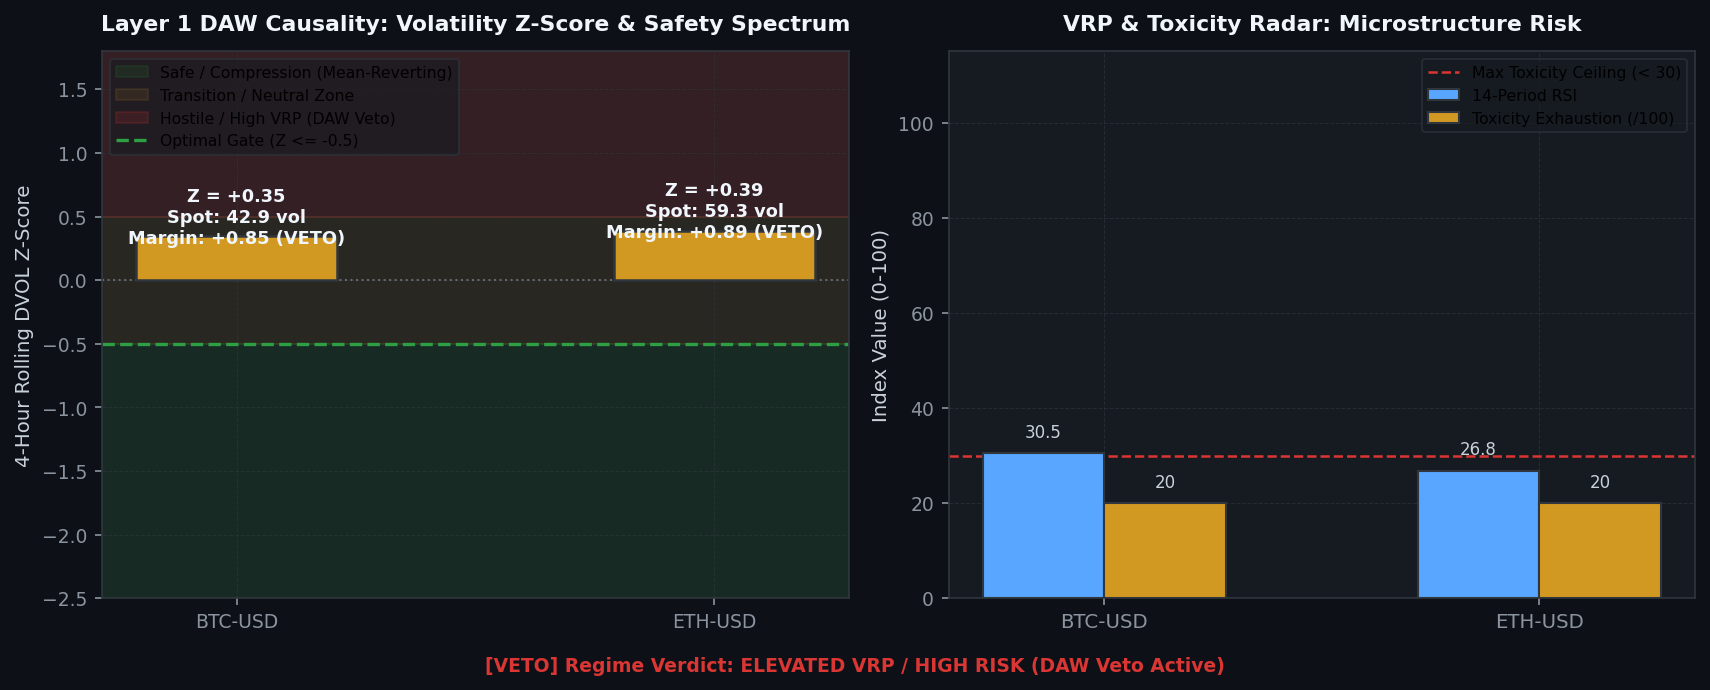
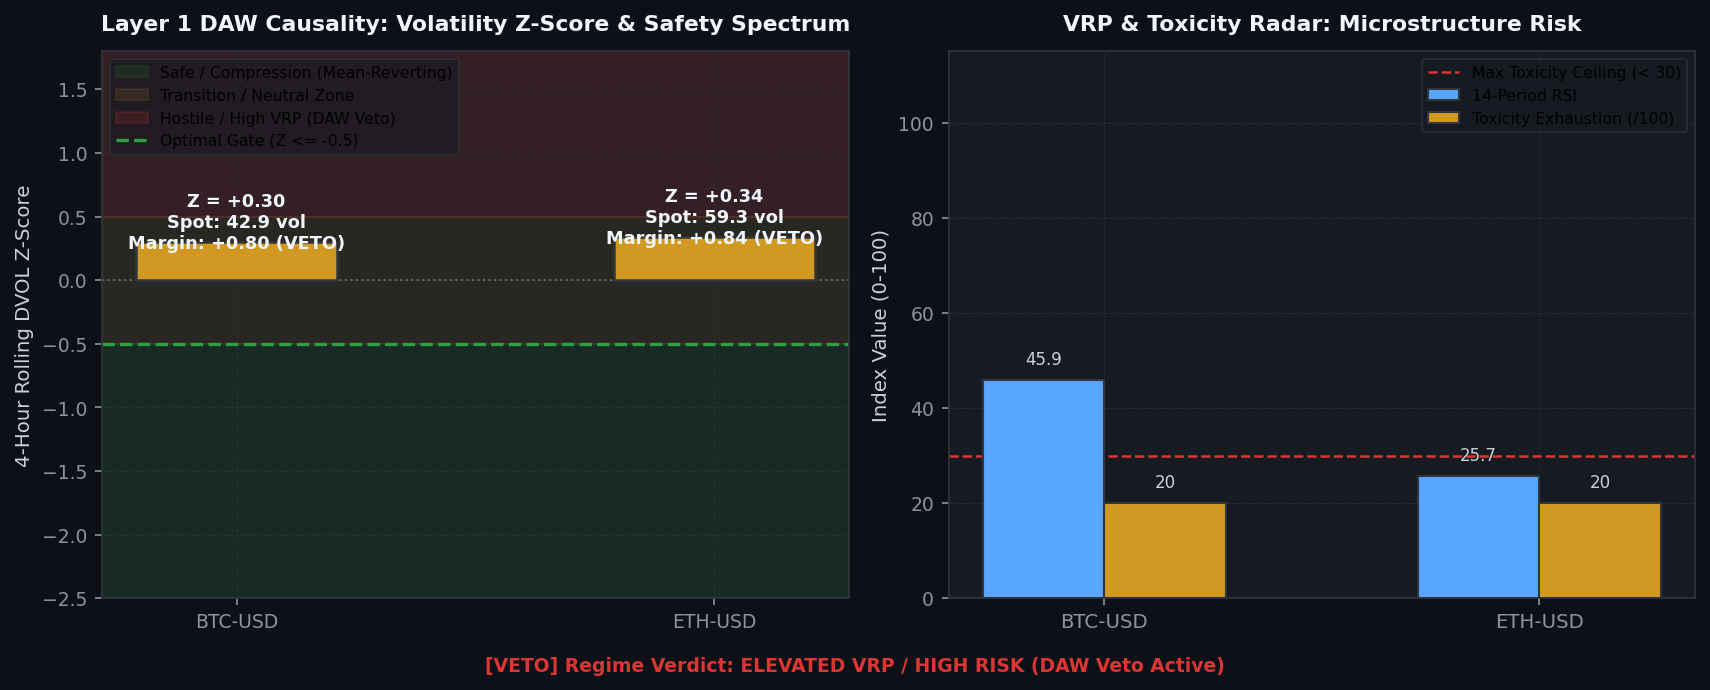
[coinbase] Hourly Status & Visual Intelligence Update: 2026-08-23 23:11:31

diff --git a/coinbase/data/hourly_status_report.md b/coinbase/data/hourly_status_report.md
@@ -3,7 +3,7 @@ layout: default
 ---
 
 # 🛡 Unified Trading System Hourly Status & Visual Intelligence
-> **Report Generated**: `2026-08-23 11:00:06 PM PDT (2026-08-24 06:00:06 UTC)`  
+> **Report Generated**: `2026-08-23 11:11:13 PM PDT (2026-08-24 06:11:13 UTC)`  
 > **System Health**: **🟡 DEGRADED / RESTRICTED** | **Win Rate**: `0.0%` | **Completed Trades**: `0`
 
 
@@ -15,13 +15,13 @@ Real-time Deribit implied volatility (DVOL) proxy tracking against mathematicall
 
 | Symbol | Proxy Oracle | Live Z-Score | Optimal Limit (YSP) | Safety Margin | Live VRP | Optimal VRP (YSP) | DAW Safety Verdict |
 | :--- | :--- | :--- | :--- | :--- | :--- | :--- | :--- |
-| `AVAX-USD` | DVOL_BTC | **+0.35** | **-0.50** | **+0.85** | **+3.95** | 5.0 | 🔴 DAW VETOED |
-| `ETH-USD` | DVOL_ETH | **+0.39** | **-0.50** | **+0.89** | **+20.41** | 5.0 | 🔴 DAW VETOED |
-| `ADA-USD` | DVOL_BTC | **+0.35** | **-0.50** | **+0.85** | **+3.95** | 5.0 | 🔴 DAW VETOED |
-| `DOGE-USD` | DVOL_BTC | **+0.35** | **-0.50** | **+0.85** | **+3.32** | 5.0 | 🔴 DAW VETOED |
-| `BTC-USD` | DVOL_BTC | **+0.35** | **-0.50** | **+0.85** | **+3.32** | 5.0 | 🔴 DAW VETOED |
-| `LINK-USD` | DVOL_BTC | **+0.35** | **-0.50** | **+0.85** | **+3.95** | 5.0 | 🔴 DAW VETOED |
-| `SOL-USD` | DVOL_BTC | **+0.35** | **-0.50** | **+0.85** | **+3.32** | 5.0 | 🔴 DAW VETOED |
+| `AVAX-USD` | DVOL_BTC | **+0.29** | **-0.50** | **+0.79** | **+4.03** | 5.0 | 🔴 DAW VETOED |
+| `ETH-USD` | DVOL_ETH | **+0.34** | **-0.50** | **+0.84** | **+20.44** | 5.0 | 🔴 DAW VETOED |
+| `ADA-USD` | DVOL_BTC | **+0.29** | **-0.50** | **+0.79** | **+4.00** | 5.0 | 🔴 DAW VETOED |
+| `DOGE-USD` | DVOL_BTC | **+0.29** | **-0.50** | **+0.79** | **+4.03** | 5.0 | 🔴 DAW VETOED |
+| `BTC-USD` | DVOL_BTC | **+0.29** | **-0.50** | **+0.79** | **+4.00** | 5.0 | 🔴 DAW VETOED |
+| `LINK-USD` | DVOL_BTC | **+0.29** | **-0.50** | **+0.79** | **+4.00** | 5.0 | 🔴 DAW VETOED |
+| `SOL-USD` | DVOL_BTC | **+0.29** | **-0.50** | **+0.79** | **+4.00** | 5.0 | 🔴 DAW VETOED |
 
 
 
@@ -37,12 +37,12 @@ We hereby certify that the mission-critical algorithmic data assets uploaded by 
 
 | Status | Data Asset | Freshness / State | Details / Timestamp |
 | :---: | :--- | :--- | :--- |
-| ❌ | **Go-List JSON** | STALE! (27.6h old) | Limit 5.0h |
-| ✅ | **TimesFM Forecasts** | Fresh (0.26h old) | 08-23 22:44 |
-| ❌ | **Holding Times config** | STALE! (62.0h old) | Limit 4.0h |
-| ✅ | **BTC DVOL Cache** | Fresh (0.00h old) | 08-23 23:00 |
-| ✅ | **ETH DVOL Cache** | Fresh (0.00h old) | 08-23 23:00 |
-| ✅ | **Live Trading Telemetry** | Fresh (0.00h old) | 08-23 23:00 |
+| ❌ | **Go-List JSON** | STALE! (27.8h old) | Limit 5.2h |
+| ✅ | **TimesFM Forecasts** | Fresh (0.44h old) | 08-23 22:44 |
+| ❌ | **Holding Times config** | STALE! (62.1h old) | Limit 4.2h |
+| ✅ | **BTC DVOL Cache** | Fresh (0.01h old) | 08-23 23:11 |
+| ✅ | **ETH DVOL Cache** | Fresh (0.00h old) | 08-23 23:11 |
+| ✅ | **Live Trading Telemetry** | Fresh (0.00h old) | 08-23 23:11 |
 
 <br>
 
@@ -55,7 +55,7 @@ Layer-by-layer tick evaluation waterfall and asset-specific performance tracking
 
 | Funnel Filter Layer | Total Rejections | % of Rejections |
 | :--- | :--- | :--- |
-| Tier 1: Macro Volatility Tensor Gate (Omega_macro) | `29,103` | **100.0%** |
+| Tier 1: Macro Volatility Tensor Gate (Omega_macro) | `29,234` | **100.0%** |
 | Tier 2: Unified Transport & Directional Engine | `0` | **0.0%** |
 | Tier 3: Continuous Hawkes-SFGK Pricer (HAS-Pricer) | `0` | **0.0%** |
 | System: Asset Cooldown Active | `0` | **0.0%** |
@@ -71,7 +71,7 @@ Layer-by-layer tick evaluation waterfall and asset-specific performance tracking
 | `AVAX-USD` | 11 | 100.0% | 0 | 🟢 OK |
 | `LINK-USD` | 12 | 83.3% | 0 | 🟢 OK |
 | `DOGE-USD` | 9 | 100.0% | 0 | 🟢 OK |
-| `ADA-USD` | 12 | 91.7% | 0 | 🟢 OK |
+| `ADA-USD` | 13 | 92.3% | 0 | 🟢 OK |
 | `SOL-USD` | 6 | 100.0% | 0 | 🟢 OK |
 | `BTC-USD` | 3 | 66.7% | 1 | 🟢 OK |
 | `ETH-USD` | 5 | 80.0% | 0 | 🟢 OK |
@@ -86,8 +86,11 @@ Live balance sheet and open maker liquidity positions from Coinbase CDP.
 | Product | Side | Limit Price | Order ID |
 | :--- | :--- | :--- | :--- |
 | `ACH-USD` | SELL | 0.005507 | `a0d2e243-42b4-4df5-bd23-118f45998df8` |
+| `DOGE-USD` | SELL | 0.09201 | `beba36c5-129e-4063-917c-a106a88d43bd` |
 | `DOGE-USD` | SELL | 0.09287 | `07f5c08a-d2c0-4ed8-91a5-7946d105e783` |
 | `ADA-USD` | SELL | 0.22154 | `1ab7ef34-9f8d-429f-8f99-ac0a875c6a74` |
+| `AVAX-USD` | SELL | 7.497 | `586707f9-7b96-47e9-a264-27254d3f0ae5` |
+| `ETH-USD` | BUY | 2445.99 | `dd8d20e1-cc35-43f5-b8a0-713dea821325` |
 
 
 
@@ -95,14 +98,14 @@ Live balance sheet and open maker liquidity positions from Coinbase CDP.
 ## 4. 🤖 Foundation Model MLOps & Pipeline Orchestration
 Weekly Algorithmic Mega Cap selection, Zero-shot multi-step forward return forecasts, and VSTEF parameter grid search status.
 
-- **TimesFM Forecast DB**: 🟢 Updated 0.3h ago (2026-08-23 10:44 PM PDT)
+- **TimesFM Forecast DB**: 🟢 Updated 0.4h ago (2026-08-23 10:44 PM PDT)
 - **Last Weekly VSTEF Optimization**: `2026-08-05 09:22:38 AM PDT`
-- **Next Scheduled VSTEF Run**: `2026-08-30 07:00:00 PM PDT (Monday 02:00 UTC)` (Countdown: **164.0h (6d 19h 59m)**)
+- **Next Scheduled VSTEF Run**: `2026-08-30 07:00:00 PM PDT (Monday 02:00 UTC)` (Countdown: **163.8h (6d 19h 48m)**)
 - **Promoted Parameter Gates**: $Z_{DVOL} \le -0.5$ | Holding Horizon $= 12\text{h}$
 
 ### Algorithmic Mega Cap Selection
 - **Last Run (Confirmation)**: `2026-08-22 07:25:41 PM PDT`
-- **Next Scheduled Run**: `2026-08-30 06:00:00 PM PDT (Monday 01:00 UTC)` (Countdown: **163.0h (6d 18h 59m)**)
+- **Next Scheduled Run**: `2026-08-30 06:00:00 PM PDT (Monday 01:00 UTC)` (Countdown: **162.8h (6d 18h 48m)**)
 - **Selected Mega Cap Universe**: `BTC, BCH, AVAX, ETH, ALGO, ADA, LTC, DOGE, AAVE, LINK, DOT, HBAR`
 
 
@@ -116,19 +119,19 @@ Visualizing the impact of the VSTEF (Volatility-Synchronized Stop-Tightening Exe
 ## 5. 🖥 Multi-Node Infrastructure & Watchdog Matrix
 ```text
 ================================================================================
-   🛡  SFGK FUNNEL GUARDIAN WATCHDOG (HFT ONLY) |  06:00:07 AM
-   CPU:  17.9%  |  MEM:   5.6% (14.6GB / 15.4GB Free)
+   🛡  SFGK FUNNEL GUARDIAN WATCHDOG (HFT ONLY) |  06:11:14 AM
+   CPU:  11.4%  |  MEM:   6.9% (14.3GB / 15.4GB Free)
 ================================================================================
 SERVICE              | PID      | STATUS          | RESTARTS | INFO
 --------------------------------------------------------------------------------
 L3 Consumer          | 1874980  | RUNNING         | -        | Continuous Websocket Feed
-Trader AVAX-USD      | 1885373  | COOL-DOWN       | 22       | Next run in 3.9s
-Trader ETH-USD       | 1885392  | COOL-DOWN       | 28       | Next run in 9.2s
-Trader ADA-USD       | 1885374  | COOL-DOWN       | 22       | Next run in 3.9s
-Trader DOGE-USD      | 1885493  | COOL-DOWN       | 34       | Next run in 14.8s
-Trader BTC-USD       | 1885494  | COOL-DOWN       | 34       | Next run in 14.8s
-Trader LINK-USD      | 1885375  | COOL-DOWN       | 22       | Next run in 3.9s
-Trader SOL-USD       | 1885495  | COOL-DOWN       | 34       | Next run in 14.8s
+Trader AVAX-USD      | 1886686  | RUNNING         | 25       | Evaluating Funnel/Polling Order
+Trader ETH-USD       | 1894511  | RUNNING         | 47       | Evaluating Funnel/Polling Order
+Trader ADA-USD       | 1894608  | COOL-DOWN       | 41       | Next run in 4.1s
+Trader DOGE-USD      | 1886711  | RUNNING         | 37       | Evaluating Funnel/Polling Order
+Trader BTC-USD       | 1894932  | COOL-DOWN       | 65       | Next run in 14.8s
+Trader LINK-USD      | 1894609  | COOL-DOWN       | 53       | Next run in 4.1s
+Trader SOL-USD       | 1894933  | COOL-DOWN       | 65       | Next run in 14.8s
 ================================================================================
 ```
 

diff --git a/coinbase/data/visual_intelligence.md b/coinbase/data/visual_intelligence.md
@@ -4,7 +4,7 @@ title: Visual Intelligence Gallery
 ---
 
 # 📈 Visual Intelligence Gallery
-> **Generated:** `2026-08-23 23:00:24`
+> **Generated:** `2026-08-23 23:11:31`
 > **[Return to Main Status Report](./hourly_status_report.html)**
 
 This page visualizes the internal states, market profiles, and decision criteria of the active **3-Tier Fused Decision Engine** across all layers.
